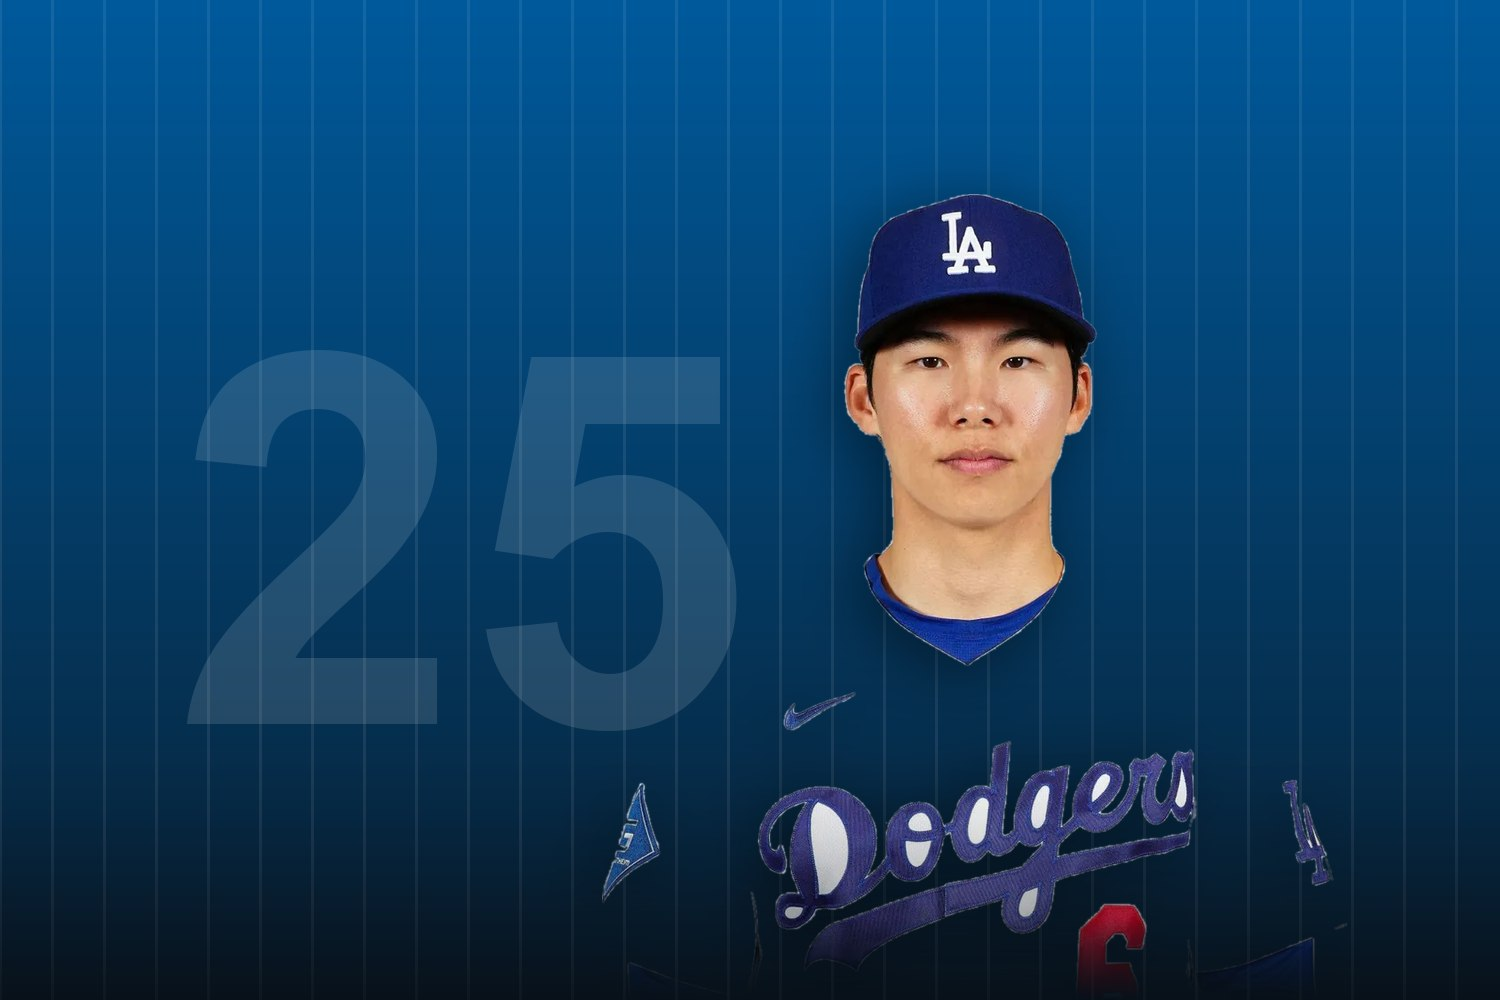
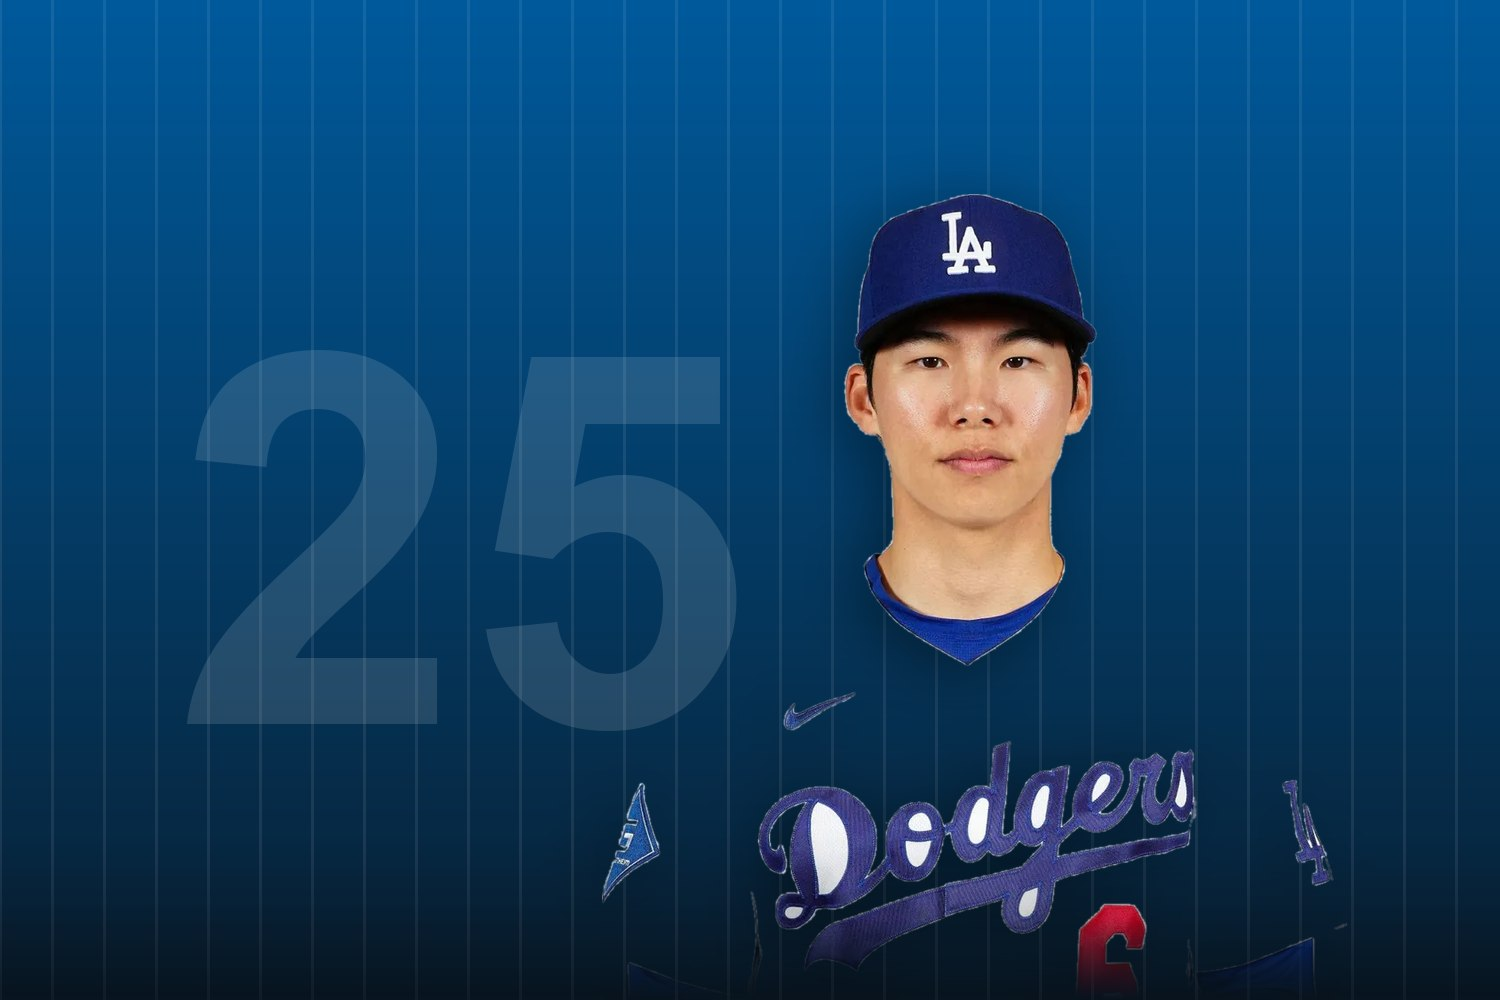
히어로 그라디언트 완화 + 송성문 누끼/잘림 수정
[밝기] 얼굴이 어두워 보이던 원인이 두 겹이었다.
- 앱 오버레이가 상단부터 균일하게 어두워지는 형태(0.15 → bg)라 얼굴
  구간까지 덮었다 → 상단 스크림(버튼 가독성)만 남기고 18~46% 구간을
  투명하게, 76%부터 배경으로 수렴하도록 변경
- 이미지에 구워 넣은 하단 페이드도 74% → 82% 지점, 알파 165 → 135
  로 완화(그림자도 120 → 105)

[송성문] 회색 스튜디오 배경이 플러드필로 덜 지워져 사각 잔여가 남고,
몸통이 넓어 화면 밖으로 잘렸다 → Vision 피사체 분리로 재컷(투명 0.55),
몸통 우측끝 상한(1360)을 넘으면 자동 축소하는 안전장치 추가.

diff --git a/index.html b/index.html
@@ -4095,7 +4095,7 @@ function PlayerScreen({ player, onBack, onMatch, liveApiMatches = [], statsCache
             ? <img src={`image/landscape/${file}`} alt={player.name} style={{ position:'absolute', inset:0, width:'100%', height:'100%', objectFit:'cover', objectPosition:'50% 25%' }}/>
             : <PlayerPhoto player={player} style={{ position:'absolute', inset:0 }}/>;
         })()}
-        <div style={{ position:'absolute', inset:0, background:'linear-gradient(to bottom, rgba(0,0,0,0.15) 0%, var(--bg) 100%)' }}/>
+        <div style={{ position:'absolute', inset:0, background:'linear-gradient(to bottom, rgba(0,0,0,0.28) 0%, rgba(0,0,0,0.05) 18%, rgba(0,0,0,0) 46%, rgba(0,0,0,0.45) 76%, var(--bg) 100%)' }}/>
         <div style={{ position:'absolute', top:12, left:20, right:20, display:'flex', justifyContent:'space-between', alignItems:'center' }}>
           <BackBtn onBack={onBack} nativeHandled/>
           {!(typeof window !== 'undefined' && window.__nativeChrome) && (
